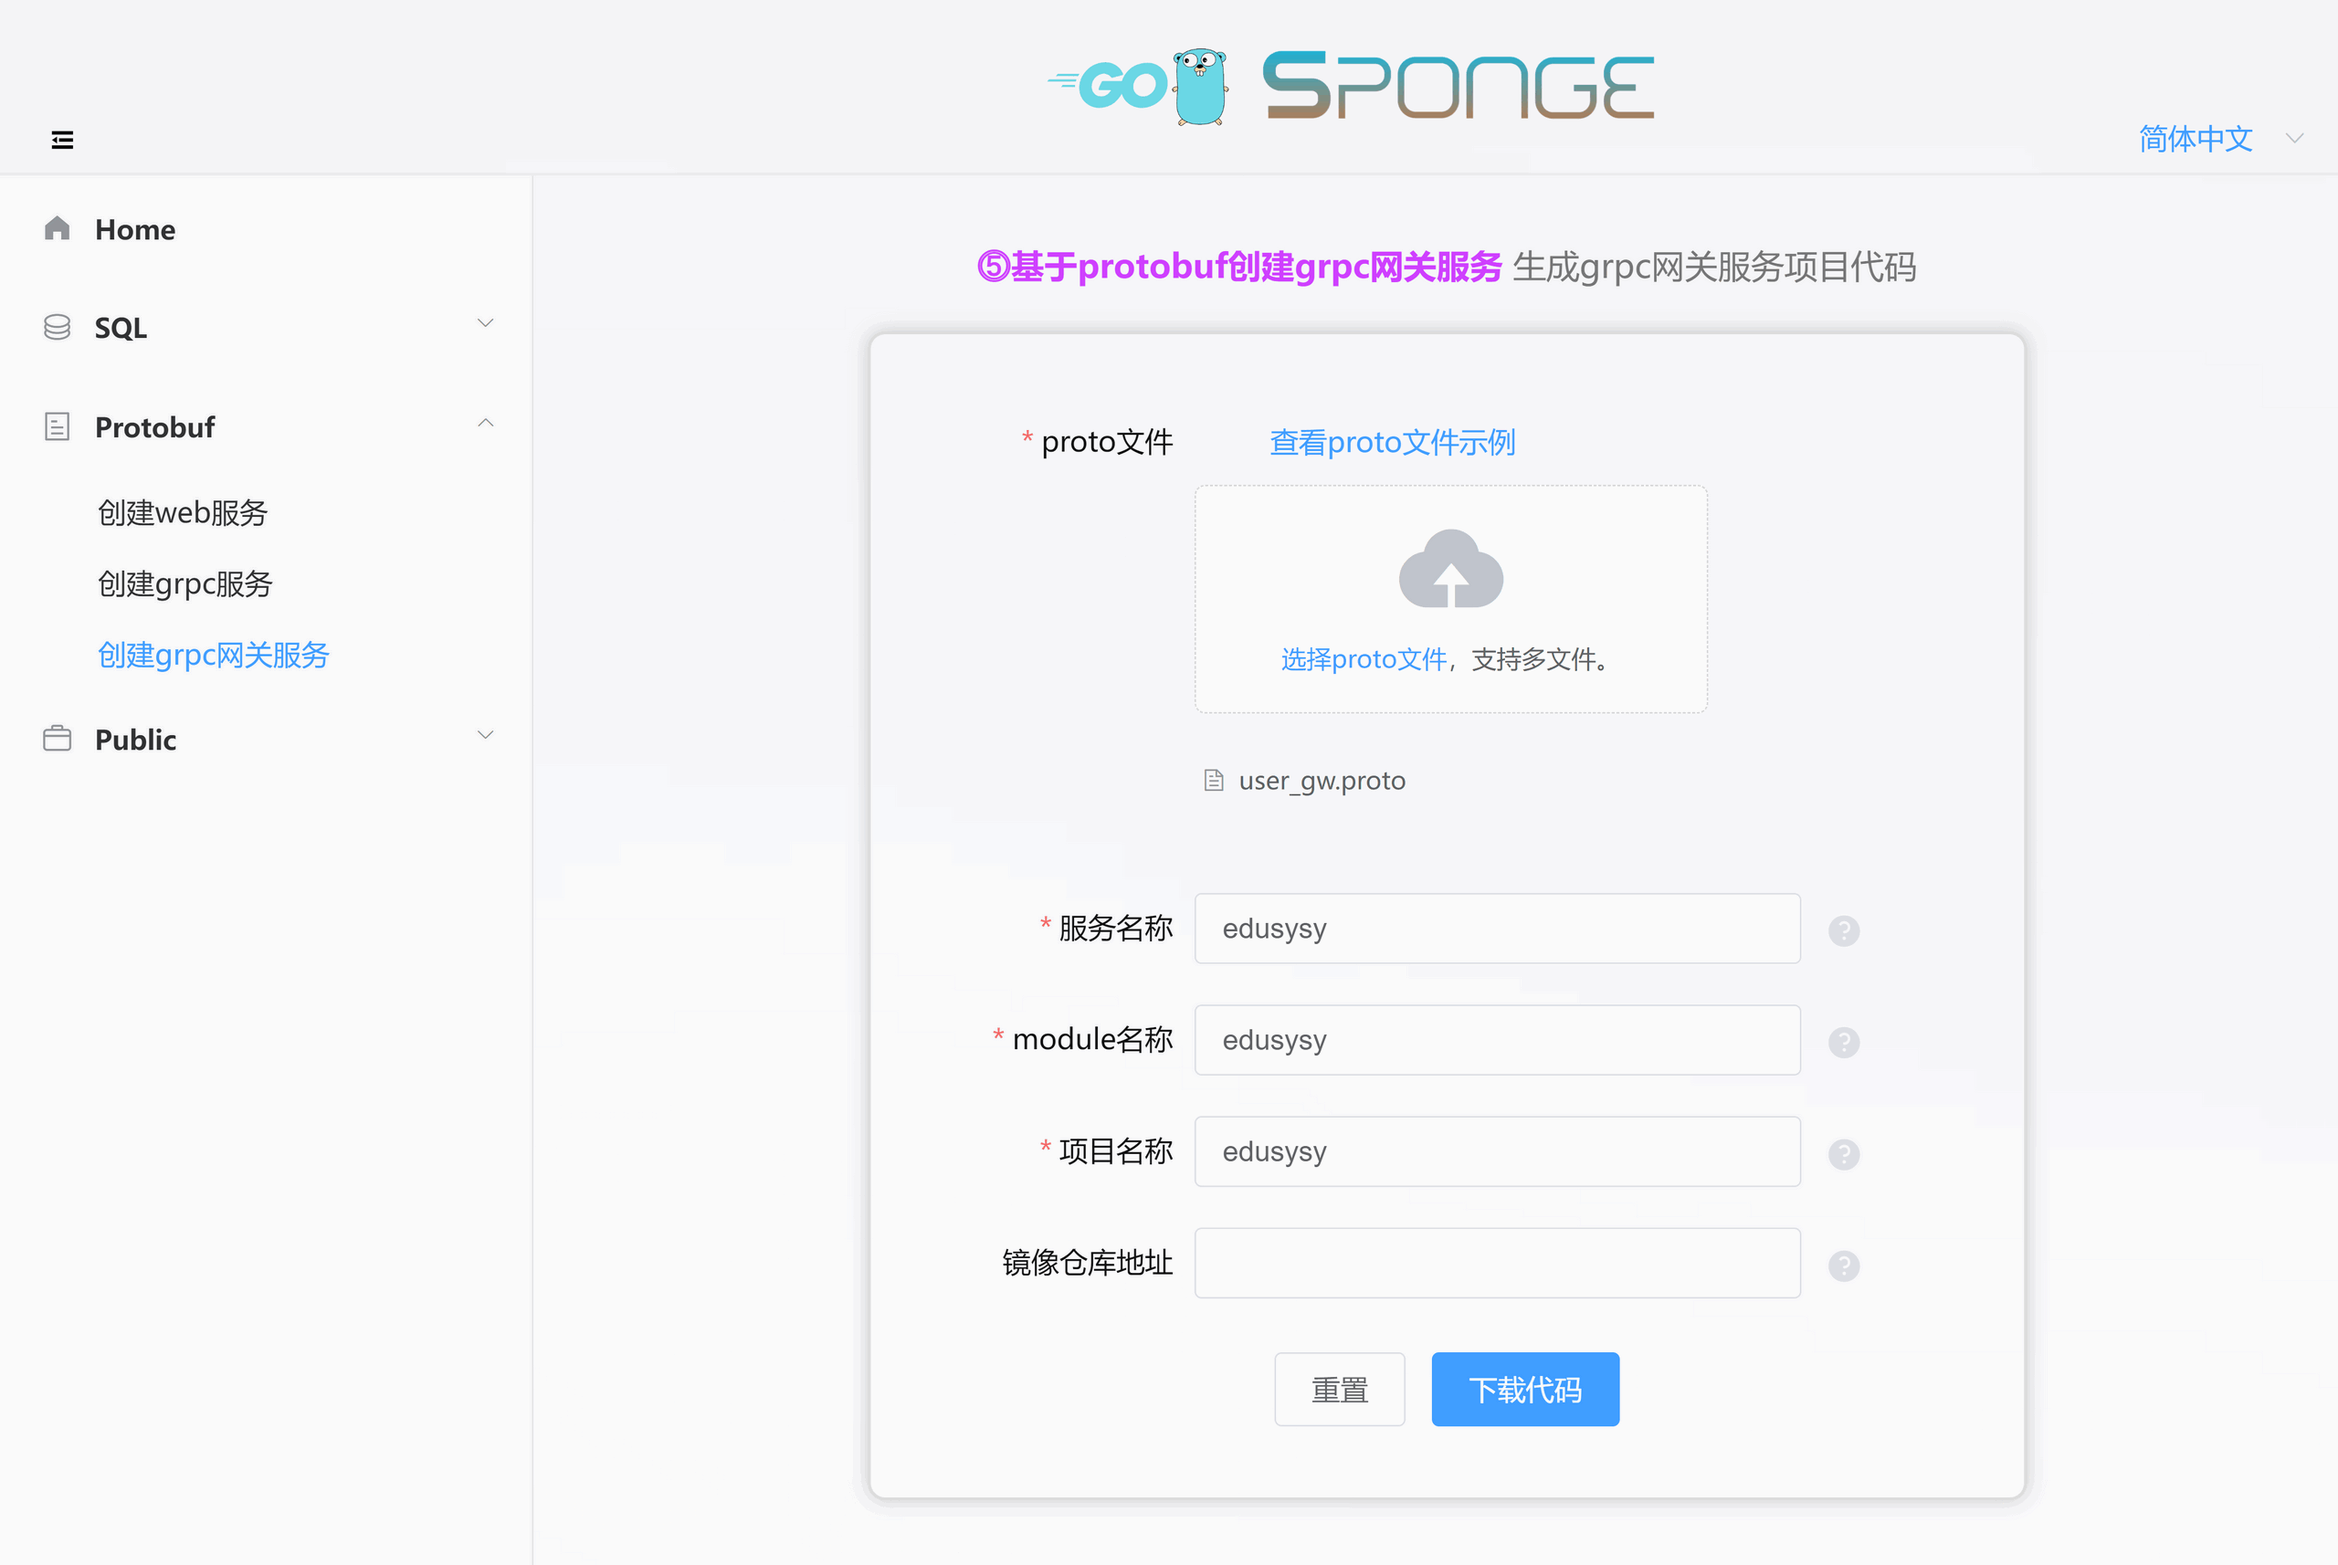
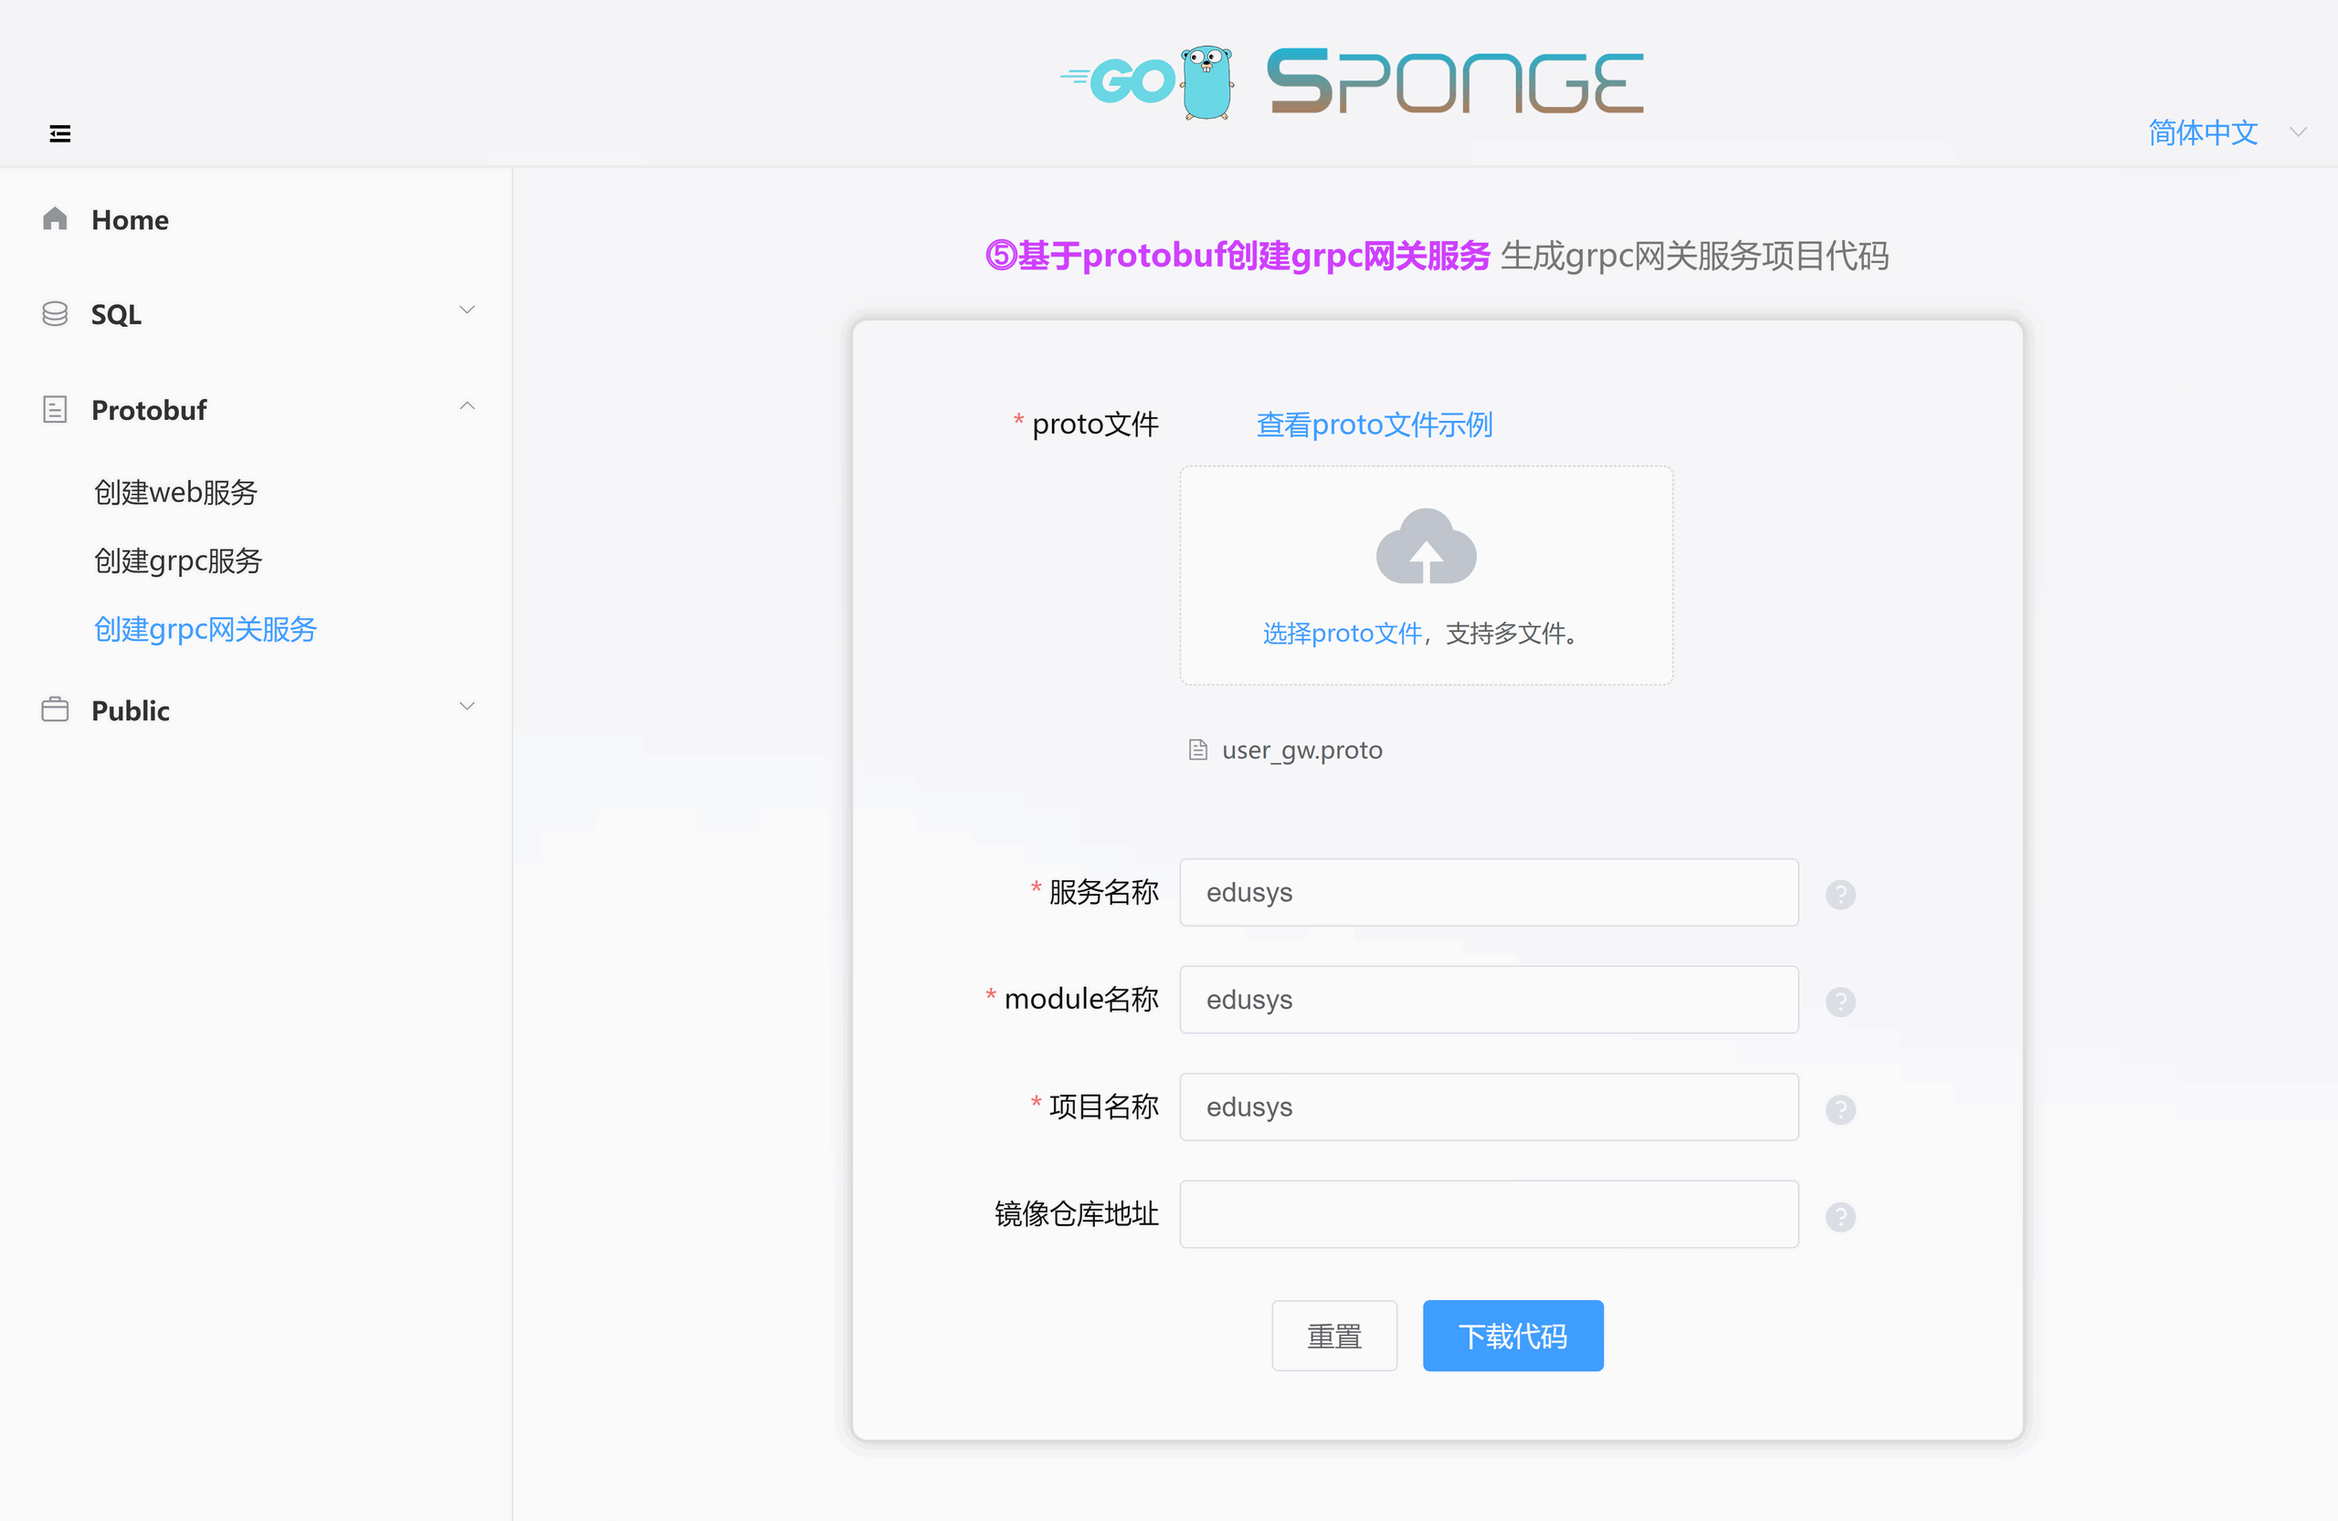
update doc

diff --git a/en/rpc-gateway-development-protobuf.md b/en/rpc-gateway-development-protobuf.md
@@ -20,7 +20,7 @@ Here, `⓹Create grpc gateway service based on protobuf` is a web service servin
 
 ### 🏷Pre-development Preparations
 
-Before developing an grpc gateway service, ensure the following preparations:
+Before developing a grpc gateway service, ensure the following preparations:
 
 - sponge is installed.
 - You have a protobuf file, such as [user_gw.proto](https://github.com/zhufuyi/sponge_examples/blob/main/5_micro-gin-rpc-gateway/user-gateway/api/user_gw/v1/user_gw.proto).
@@ -38,7 +38,7 @@ Access the sponge code generation UI interface in your web browser at http://loc
 
 ### 🏷Creating a GRPC Gateway Service Project
 
-Access the sponge UI interface, click on the left menu bar **[Protobuf]** -> **[Create GRPC Gateway Project]**, select the protobuf file(s) (multiple selections allowed), and then fill in the other parameters. Hover over the question mark `?` to view parameter descriptions. After filling in the parameters, click the `Download Code` button to generate the grpc gateway service project code, as shown in the screenshot below:
+Access the sponge UI interface, click on the left menu bar **[Protobuf]** -> **[Create GRPC Gateway Service]**, select the protobuf file(s) (multiple selections allowed), and then fill in the other parameters. Hover over the question mark `?` to view parameter descriptions. After filling in the parameters, click the `Download Code` button to generate the grpc gateway service project code, as shown in the screenshot below:
 
 ![micro-rpc-gw-pb](assets/images/micro-rpc-gw-pb.png)
 

diff --git a/en/quick-start.md b/en/quick-start.md
@@ -264,7 +264,7 @@ Below is an example of creating a project using the `⓵Create web service based
 
 > [!tip] Code generation depends on a MySQL service and MySQL tables. If you don't have them ready, here are the [scripts to start a MySQL service with Docker](https://github.com/zhufuyi/sponge/blob/main/test/server/mysql/docker-compose.yaml). After starting the MySQL service, import the [MySQL table SQL](https://github.com/zhufuyi/sponge_examples/blob/main/1_web-gin-CRUD/test/sql/user.sql).
 
-Enter the sponge UI interface, click on the left menu bar **[SQL]** -> **[Create Web Project]**, fill in the `MySQL DSN address`, click `Fetch Table Names`, then select the table name(s) (multiple selections are allowed). Next, fill in other parameters, and hover over the question mark `?` to view parameter descriptions. After filling in the parameters, click the `Download Code` button to generate the complete web service project, as shown in the screenshot below:
+Enter the sponge UI interface, click on the left menu bar **[SQL]** -> **[Create Web Service]**, fill in the `MySQL DSN address`, click `Fetch Table Names`, then select the table name(s) (multiple selections are allowed). Next, fill in other parameters, and hover over the question mark `?` to view parameter descriptions. After filling in the parameters, click the `Download Code` button to generate the complete web service project, as shown in the screenshot below:
 
 ![web-http](assets/images/web-http.png)
 

diff --git a/en/web-development-mysql.md b/en/web-development-mysql.md
@@ -29,7 +29,7 @@ Access the sponge code generation UI interface in your browser by navigating to 
 
 ### 🏷Creating a Web Service Project
 
-In the sponge UI interface, navigate to the left sidebar, click on "SQL," and then click on "Create Web Project." Fill in the `MySQL DSN address`, click the "Get Table Names" button, select the table names (you can select multiple), and then fill in the other parameters. Hover over the question mark `?` to view parameter explanations. After filling in the parameters, click the "Download Code" button to generate the complete project code for the web service, as shown in the image below:
+In the sponge UI interface, navigate to the left sidebar, click on "SQL," and then click on "Create Web Service" Fill in the `MySQL DSN address`, click the "Get Table Names" button, select the table names (you can select multiple), and then fill in the other parameters. Hover over the question mark `?` to view parameter explanations. After filling in the parameters, click the "Download Code" button to generate the complete project code for the web service, as shown in the image below:
 
 ![web-http](assets/images/web-http.png)
 

diff --git a/quick-start.md b/quick-start.md
@@ -266,7 +266,7 @@ sponge run
 
 > [!tip] 生成代码需要依赖mysql服务和mysql表，如果都没有准备好，这里有[docker启动mysql服务脚本](https://github.com/zhufuyi/sponge/blob/main/test/server/mysql/docker-compose.yaml)，启动mysql服务之后导入[mysql表sql](https://github.com/zhufuyi/sponge_examples/blob/main/1_web-gin-CRUD/test/sql/user.sql)。
 
-进入sponge的UI界面，点击左边菜单栏【SQL】--> 【创建web项目】，填写`mysql dsn地址`，点击`获取表名`，然后选择表名(可多选)，接着填写其他参数，鼠标放在问号`?`位置查看参数说明，填写完参数后，点击按钮`下载代码`生成web服务完整项目代码，如下图所示：
+进入sponge的UI界面，点击左边菜单栏【SQL】--> 【创建web服务】，填写`mysql dsn地址`，点击`获取表名`，然后选择表名(可多选)，接着填写其他参数，鼠标放在问号`?`位置查看参数说明，填写完参数后，点击按钮`下载代码`生成web服务完整项目代码，如下图所示：
 
 ![web-http](assets/images/web-http.png)
 

diff --git a/en/web-development-protobuf.md b/en/web-development-protobuf.md
@@ -41,7 +41,7 @@ Access [http://localhost:24631](http://localhost:24631) in your browser to enter
 
 ### 🔹Creating a Web Service Project
 
-In the sponge UI interface, click on the left-hand menu **[Protobuf]** --> **[Create Web Project]**. Select the proto file(s) (multiple selections are possible), fill in the other parameters, and hover over the question mark `?` to view parameter descriptions. After completing the parameters, click the `Download Code` button to generate the web service project code, as shown in the image below:
+In the sponge UI interface, click on the left-hand menu **[Protobuf]** --> **[Create Web Service]**. Select the proto file(s) (multiple selections are possible), fill in the other parameters, and hover over the question mark `?` to view parameter descriptions. After completing the parameters, click the `Download Code` button to generate the web service project code, as shown in the image below:
 
 ![web-http](assets/images/web-http-pb.png)
 

diff --git a/web-development-mysql.md b/web-development-mysql.md
@@ -29,7 +29,7 @@ sponge run
 
 ### 🏷创建web服务项目
 
-进入sponge的UI界面，点击左边菜单栏【SQL】-->【创建web项目】，填写`mysql dsn地址`，然后点击按钮`获取表名`，选择表名(可多选)，接着填写其他参数，鼠标放在问号`?`位置可以查看参数说明，填写完参数后，点击按钮`下载代码`生成web服务完整项目代码，如下图所示：
+进入sponge的UI界面，点击左边菜单栏【SQL】-->【创建web服务】，填写`mysql dsn地址`，然后点击按钮`获取表名`，选择表名(可多选)，接着填写其他参数，鼠标放在问号`?`位置可以查看参数说明，填写完参数后，点击按钮`下载代码`生成web服务完整项目代码，如下图所示：
 
 ![web-http](assets/images/web-http.png)
 

diff --git a/rpc-gateway-development-protobuf.md b/rpc-gateway-development-protobuf.md
@@ -37,7 +37,7 @@ sponge run
 
 ### 🏷创建grpc网关服务项目
 
-进入sponge的UI界面，点击左边菜单栏【Protobuf】-->【创建grpc网关项目】，选择proto文件(可多选)，接着填写其他参数，鼠标放在问号`?`位置可以查看参数说明，填写完参数后，点击按钮`下载代码`生成grpc网关服务项目代码，如下图所示：
+进入sponge的UI界面，点击左边菜单栏【Protobuf】-->【创建grpc网关服务】，选择proto文件(可多选)，接着填写其他参数，鼠标放在问号`?`位置可以查看参数说明，填写完参数后，点击按钮`下载代码`生成grpc网关服务项目代码，如下图所示：
 
 ![micro-rpc-gw-pb](assets/images/micro-rpc-gw-pb.png)
 

diff --git a/web-development-protobuf.md b/web-development-protobuf.md
@@ -41,7 +41,7 @@ sponge run
 
 ### 🔹创建web服务项目
 
-进入sponge的UI界面，点击左边菜单栏【Protobuf】-->【创建web项目】，选择proto文件(可多选)，接着填写其他参数，鼠标放在问号`?`位置可以查看参数说明，填写完参数后，点击按钮`下载代码`生成web服务项目代码，如下图所示：
+进入sponge的UI界面，点击左边菜单栏【Protobuf】-->【创建web服务】，选择proto文件(可多选)，接着填写其他参数，鼠标放在问号`?`位置可以查看参数说明，填写完参数后，点击按钮`下载代码`生成web服务项目代码，如下图所示：
 
 ![web-http](assets/images/web-http-pb.png)
 
